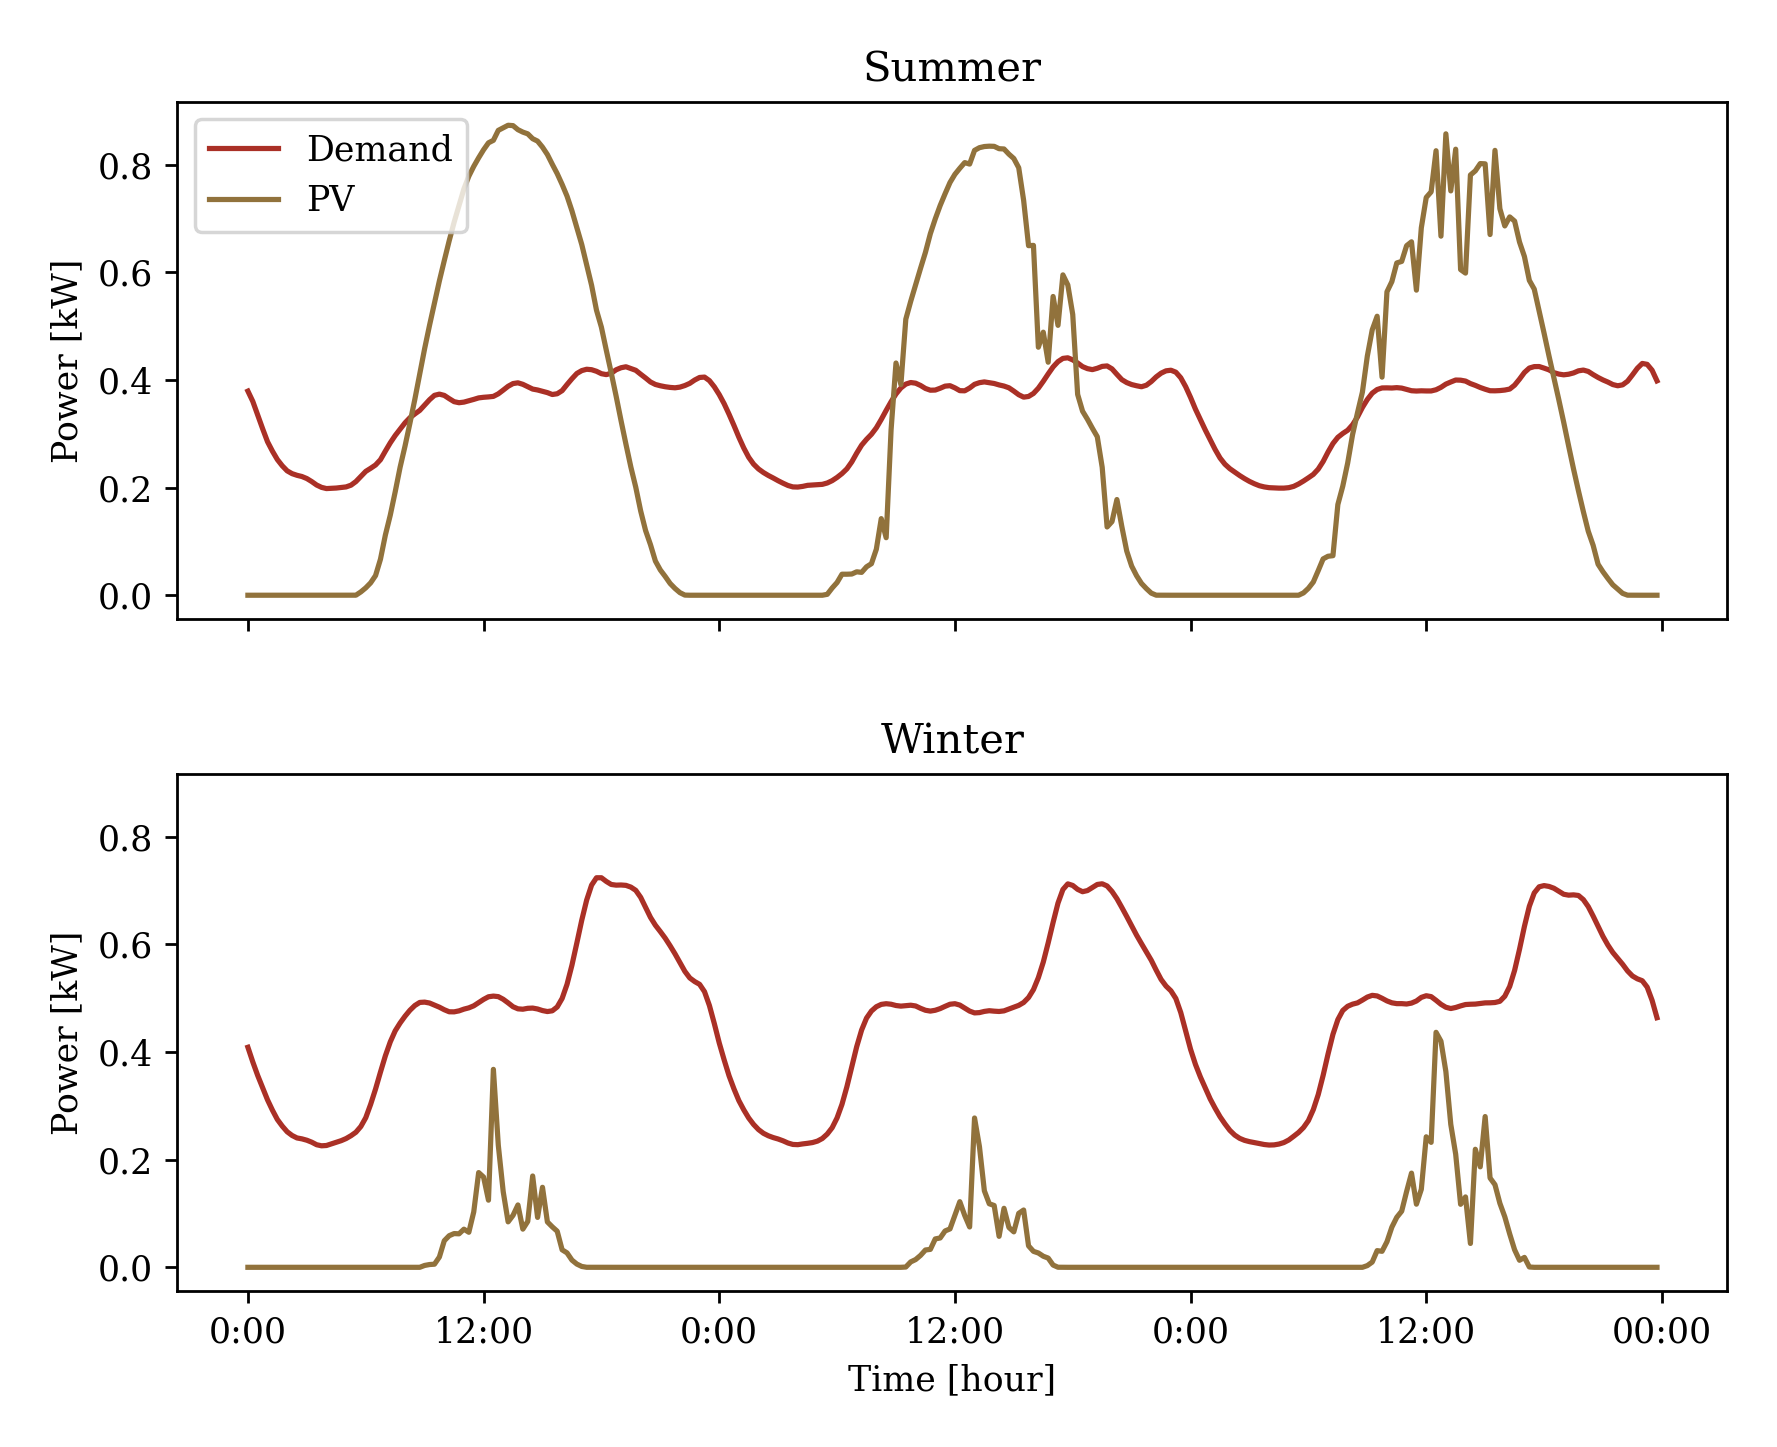
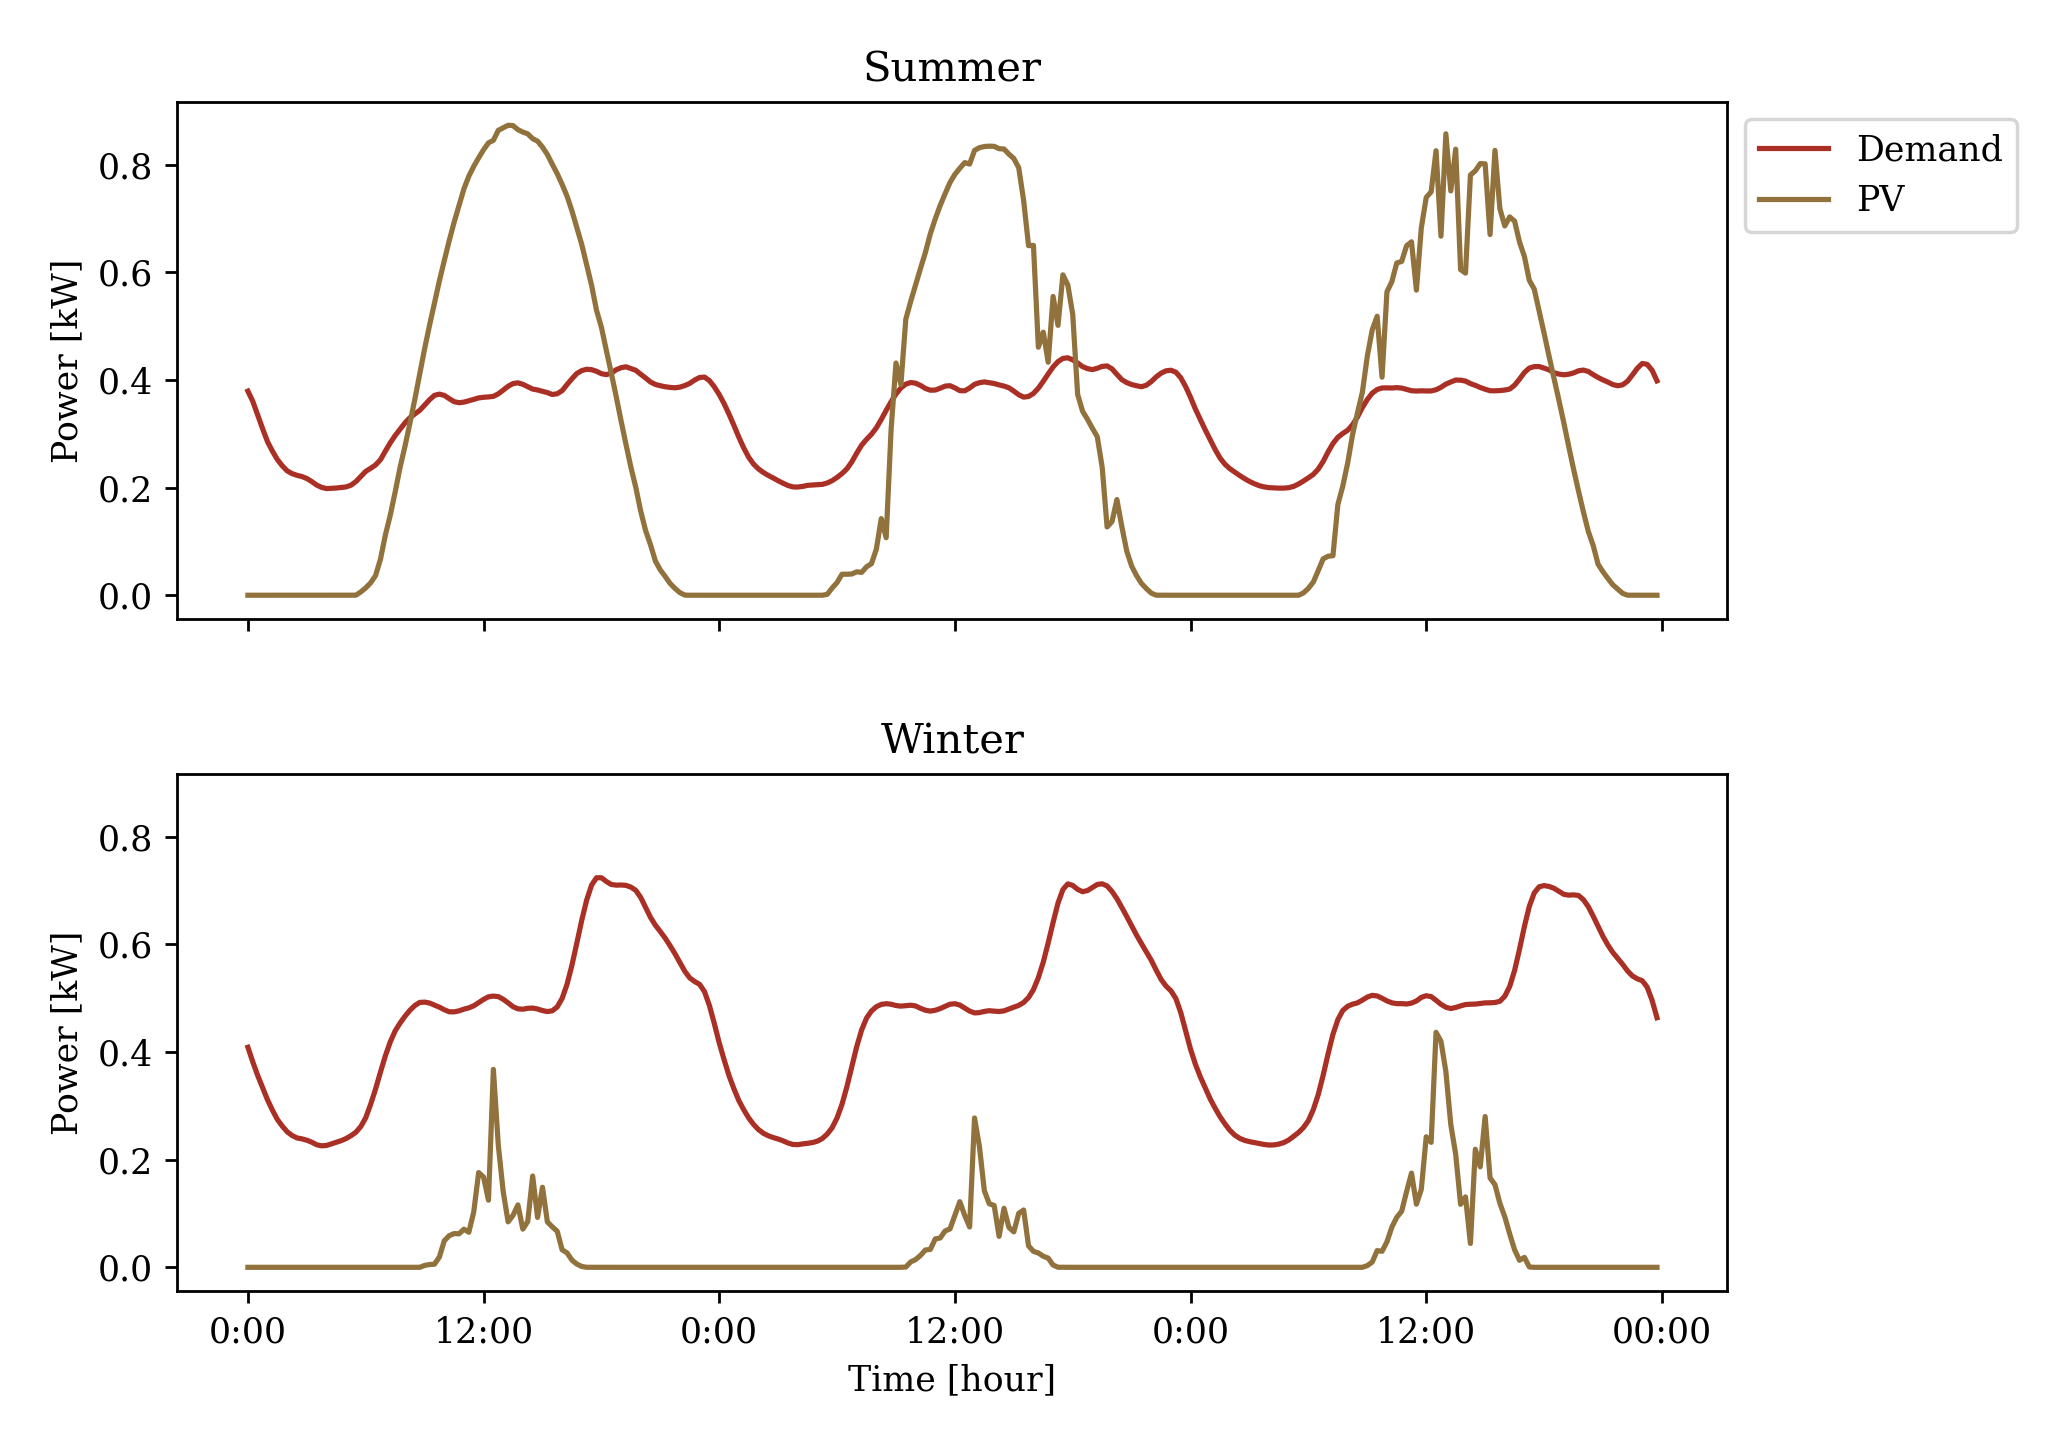
fix: Move the legend outside of the plots

diff --git a/src/question2.py b/src/question2.py
@@ -45,7 +45,7 @@ for index, season in enumerate(results):
     subplot.plot(results[season].pv_gen, color='#91723c', label='PV')
 
     if index == 0:
-        subplot.legend()
+        subplot.legend(bbox_to_anchor=(1, 1), loc='upper left')
 plots.savefig('../output/demand_and_pv.png')
 
 # Create a plot with the price and state of charge
@@ -63,7 +63,8 @@ for index, season in enumerate(results):
     if index == 0:
         allplots = plot1 + plot2
         labels = [plot.get_label() for plot in allplots]
-        subplot.legend(allplots, labels, loc=0)
+        subplot.legend(allplots, labels, bbox_to_anchor=(
+            1.12, 1), loc='upper left')
 plots.savefig('../output/price_vs_battery.png')
 
 # Create a plot with all power flows
@@ -76,5 +77,5 @@ for index, season in enumerate(results):
     subplot.plot(results[season].battery_power,
                  color='#915a8d', label='Battery')
     if index == 0:
-        subplot.legend()
+        subplot.legend(bbox_to_anchor=(1, 1), loc='upper left')
 plots.savefig('../output/power_flows.png')
